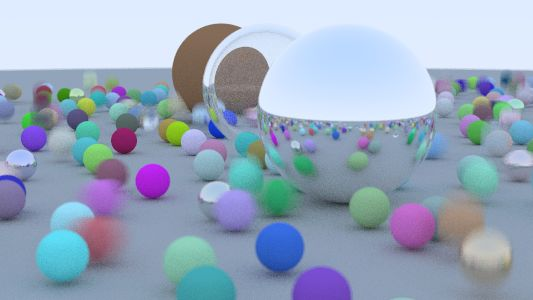
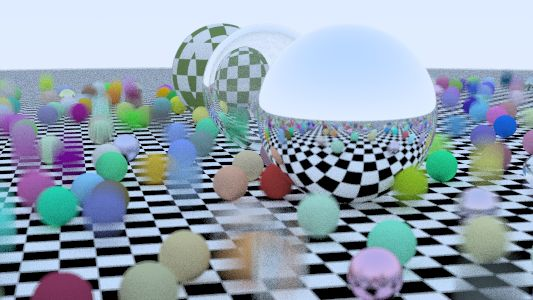
update checker texture

diff --git a/nextweek/config/config.hpp b/nextweek/config/config.hpp
@@ -12,6 +12,7 @@
 #include "hittable.hpp"
 #include "material.hpp"
 #include "project_path.hpp"
+#include "texture.hpp"
 
 #define MUTILTHREAD
 #define INIT_WORLD_WITH_CONFIG
@@ -26,6 +27,7 @@ class ConfigManager {
     shared_ptr<Camera> camera;
     std::vector<shared_ptr<Material>> materials;
     std::vector<shared_ptr<Hittable>> objs;
+    std::vector<shared_ptr<Texture>> textures;
 
     bool use_bvh = false;
     bool is_sample_world = false;
@@ -139,10 +141,23 @@ public:
                     double t2 = GetDouble(line);
                     camera = make_shared<Camera>(o, up_dir, look_at, vfov, lr, dist, t1, t2);
                 }
-                else if (line.compare("Lambertian") == 0) {
+                else if (line.compare("Solid") == 0) {
                     std::getline(f, line);
                     Color color = GetColor(line);
-                    materials.push_back(make_shared<Lambertian>(color));
+                    textures.emplace_back(make_shared<SolidTexture>(color));
+                }
+                else if (line.compare("Checker") == 0) {
+                    std::getline(f, line);
+                    Color color0 = GetColor(line);
+                    std::getline(f, line);
+                    Color color1 = GetColor(line);
+                    textures.emplace_back(make_shared<CheckerTexture>(color0, color1));
+                }
+                else if (line.compare("Lambertian") == 0) {
+                    std::getline(f, line);
+                    int index = GetDouble(line) - 1;
+                    if (index >= 0 && index < textures.size())
+                        materials.push_back(make_shared<Lambertian>(textures[index]));
                 }
                 else if (line.compare("Dielectrics") == 0) {
                     std::getline(f, line);
@@ -151,10 +166,11 @@ public:
                 }
                 else if (line.compare("Metal") == 0) {
                     std::getline(f, line);
-                    Color color = GetColor(line);
+                    int index = GetDouble(line) - 1;
                     std::getline(f, line);
                     double fuzz = GetDouble(line);
-                    materials.push_back(make_shared<Metal>(color, fuzz));
+                    if (index >= 0 && index < textures.size())
+                        materials.push_back(make_shared<Metal>(textures[index], fuzz));
                 }
                 else if (line.compare("Sphere") == 0) {
                     std::getline(f, line);

diff --git a/nextweek/include/texture.hpp b/nextweek/include/texture.hpp
@@ -23,6 +23,9 @@ public:
     }
 };
 
+#define MAP_SPHERE_TO_CUBE
+#define TEXTURE_WITH_UV
+
 class CheckerTexture : public Texture {
     std::shared_ptr<Texture> odd;
     std::shared_ptr<Texture> even;
@@ -33,10 +36,20 @@ public:
     : even(even_), odd(odd_) {}
 
     Color GetTexture(const double u, const double v, const point3d& p) const override {
-        // auto sines = std::abs(cos(10 * p.x)) * sin(10 * p.y) * sin(10 * p.z);
-        // auto sines = sin(10 * p.x) * sin(10 * p.y) * std::abs(sin(10 * p.z));
-        auto sines = sin(10 * u * 2 * PI) * sin(10 * v * 2 * PI);
+        #if defined(MAP_SPHERE_TO_CUBE)
+        auto sines = sin(p.x) * sin(p.y) * sin(p.z);
         return sines < 0 ? odd->GetTexture(u, v, p) : even->GetTexture(u, v, p);
+        #elif defined(TEXTURE_WITH_UV)
+        // double tu = u * 10;
+        // double tv = v * 10;
+        // tu = tu - (int)tu;
+        // tv = tv - (int)tv;
+        // return (tu + tv < 0.5 || tu + tv > 1.5 || tv - tu > 0.5 || tv - tu < -0.5) ? odd->GetTexture(u, v, p) : even->GetTexture(u, v, p);
+        return sin(u) * sin(v) < 0 ? odd->GetTexture(u, v, p) : even->GetTexture(u, v, p);
+        #else 
+        auto sines = sin(p.x * 10) * sin(p.y * 10) * sin(p.z * 10);
+        return sines < 0 ? odd->GetTexture(u, v, p) : even->GetTexture(u, v, p);
+        #endif
     }
 };
 

diff --git a/nextweek/include/hittable.hpp b/nextweek/include/hittable.hpp
@@ -34,8 +34,9 @@ public:
     virtual bool hit(const Ray& ray, double t_min, double t_max, hit_info& ret) const = 0;
     virtual bool scatter(Ray& ray_out, const hit_info& hit) const = 0;
     virtual bool bounding_box(const double, const double, AABB& output_box) const = 0;
+    virtual void GetUV(double&, double&, const point3d&) const {}
     // Color get_material_attenuation_coef() const { return material->get_color_attenuation_coef(); }
-    Color get_material_texture(const double u, const double v, const point3d& p) const { return material->get_texture(u, v, p); }
+    virtual Color get_material_texture(const double u, const double v, const point3d& p) const { return material->get_texture(u, v, p); }
 };
 
 class Sphere : public Hittable {
@@ -53,7 +54,8 @@ public:
     bool scatter(Ray&, const hit_info&) const override;
     bool bounding_box(const double, const double, AABB&) const override;
 
-    static void GetUV(double&, double&, const point3d&);
+    void GetUV(double&, double&, const point3d&) const override;
+    Color get_material_texture(const double u, const double v, const point3d& p) const override;
 };
 
 class MovingSphere : public Sphere {

diff --git a/nextweek/src/hittable.cpp b/nextweek/src/hittable.cpp
@@ -56,11 +56,27 @@ bool Sphere::bounding_box(const double, const double, AABB& output_box) const {
     return true;
 }
 
-void Sphere::GetUV(double& u, double& v, const point3d& p) {
+void Sphere::GetUV(double& u, double& v, const point3d& hit_p) const {
+    point3d p = (hit_p + vec3d(point3d(0, 0, 0) - o)) / r;
     double theta = std::acos(p.y);
     double phi = std::atan2(p.z, p.x) + PI;
     u = phi / (2 * PI);
     v = theta / PI;
+}
+
+Color Sphere::get_material_texture(const double u, const double v, const point3d& hit_p) const {
+    #if defined(MAP_SPHERE_TO_CUBE)
+    point3d p = (hit_p + vec3d(point3d(0, 0, 0) - o)) / r;
+    double x = abs(p.x), y = abs(p.y), z = abs(p.z);
+    if (z >= x && z >= y) p.z = p.z > 0 ? 1 : -1;
+    else if (y >= x && y >= z) p.y = p.y > 0 ? 1 : -1;
+    else p.x = p.x > 0 ? 1 : -1;
+    return material->get_texture(u, v, p * r * 10);
+    #elif defined(TEXTURE_WITH_UV)
+    return material->get_texture(u * 100, v * 100, hit_p);
+    #else
+    return material->get_texture(u, v, hit_p);
+    #endif
 }
 
 point3d MovingSphere::get_origin(const double time) const {

diff --git a/nextweek/src/main.cpp b/nextweek/src/main.cpp
@@ -1,4 +1,4 @@
-#include "config.hpp"
+#include "config.hpp"
 #include "BVH.hpp"
 #include <iostream>
 #include "RenderThreadPool.hpp"

diff --git a/nextweek/README.md b/nextweek/README.md
@@ -1,0 +1,22 @@
+## Ray Tracing: The Next Week
+
+> 新增了配置文件方便调试
+
+![](./image.jpg)
+
+> 一些优化
+>
+> - BVH：复杂场景330+s -> 90左右s
+> - 线程池：90s -> 65s
+
+![](./image2.jpg)
+
+>遗留问题
+>
+>- 棋盘纹理
+>
+>  想做到均匀分布到球面上，使用球坐标映射到UV的方法，会存在球顶部辐射状问题，使用映射到立方体的方法，立方体边界也存在问题
+>
+>  <img src="./texture3.jpg" style="zoom:33%;" /><img src="./texture2.jpg" style="zoom:33%;" />
+>
+>- -

diff --git a/README.md b/README.md
@@ -9,13 +9,4 @@ A repository for learning ray tracing.
 
 ## Ray Tracing: The Next Week
 
-> 新增了配置文件方便调试
-
-![](./nextweek/image.jpg)
-
-> 一些优化
->
-> - BVH：复杂场景330+s -> 90左右s
-> - 线程池：90s -> 65s
-
 ![](./nextweek/image2.jpg)
